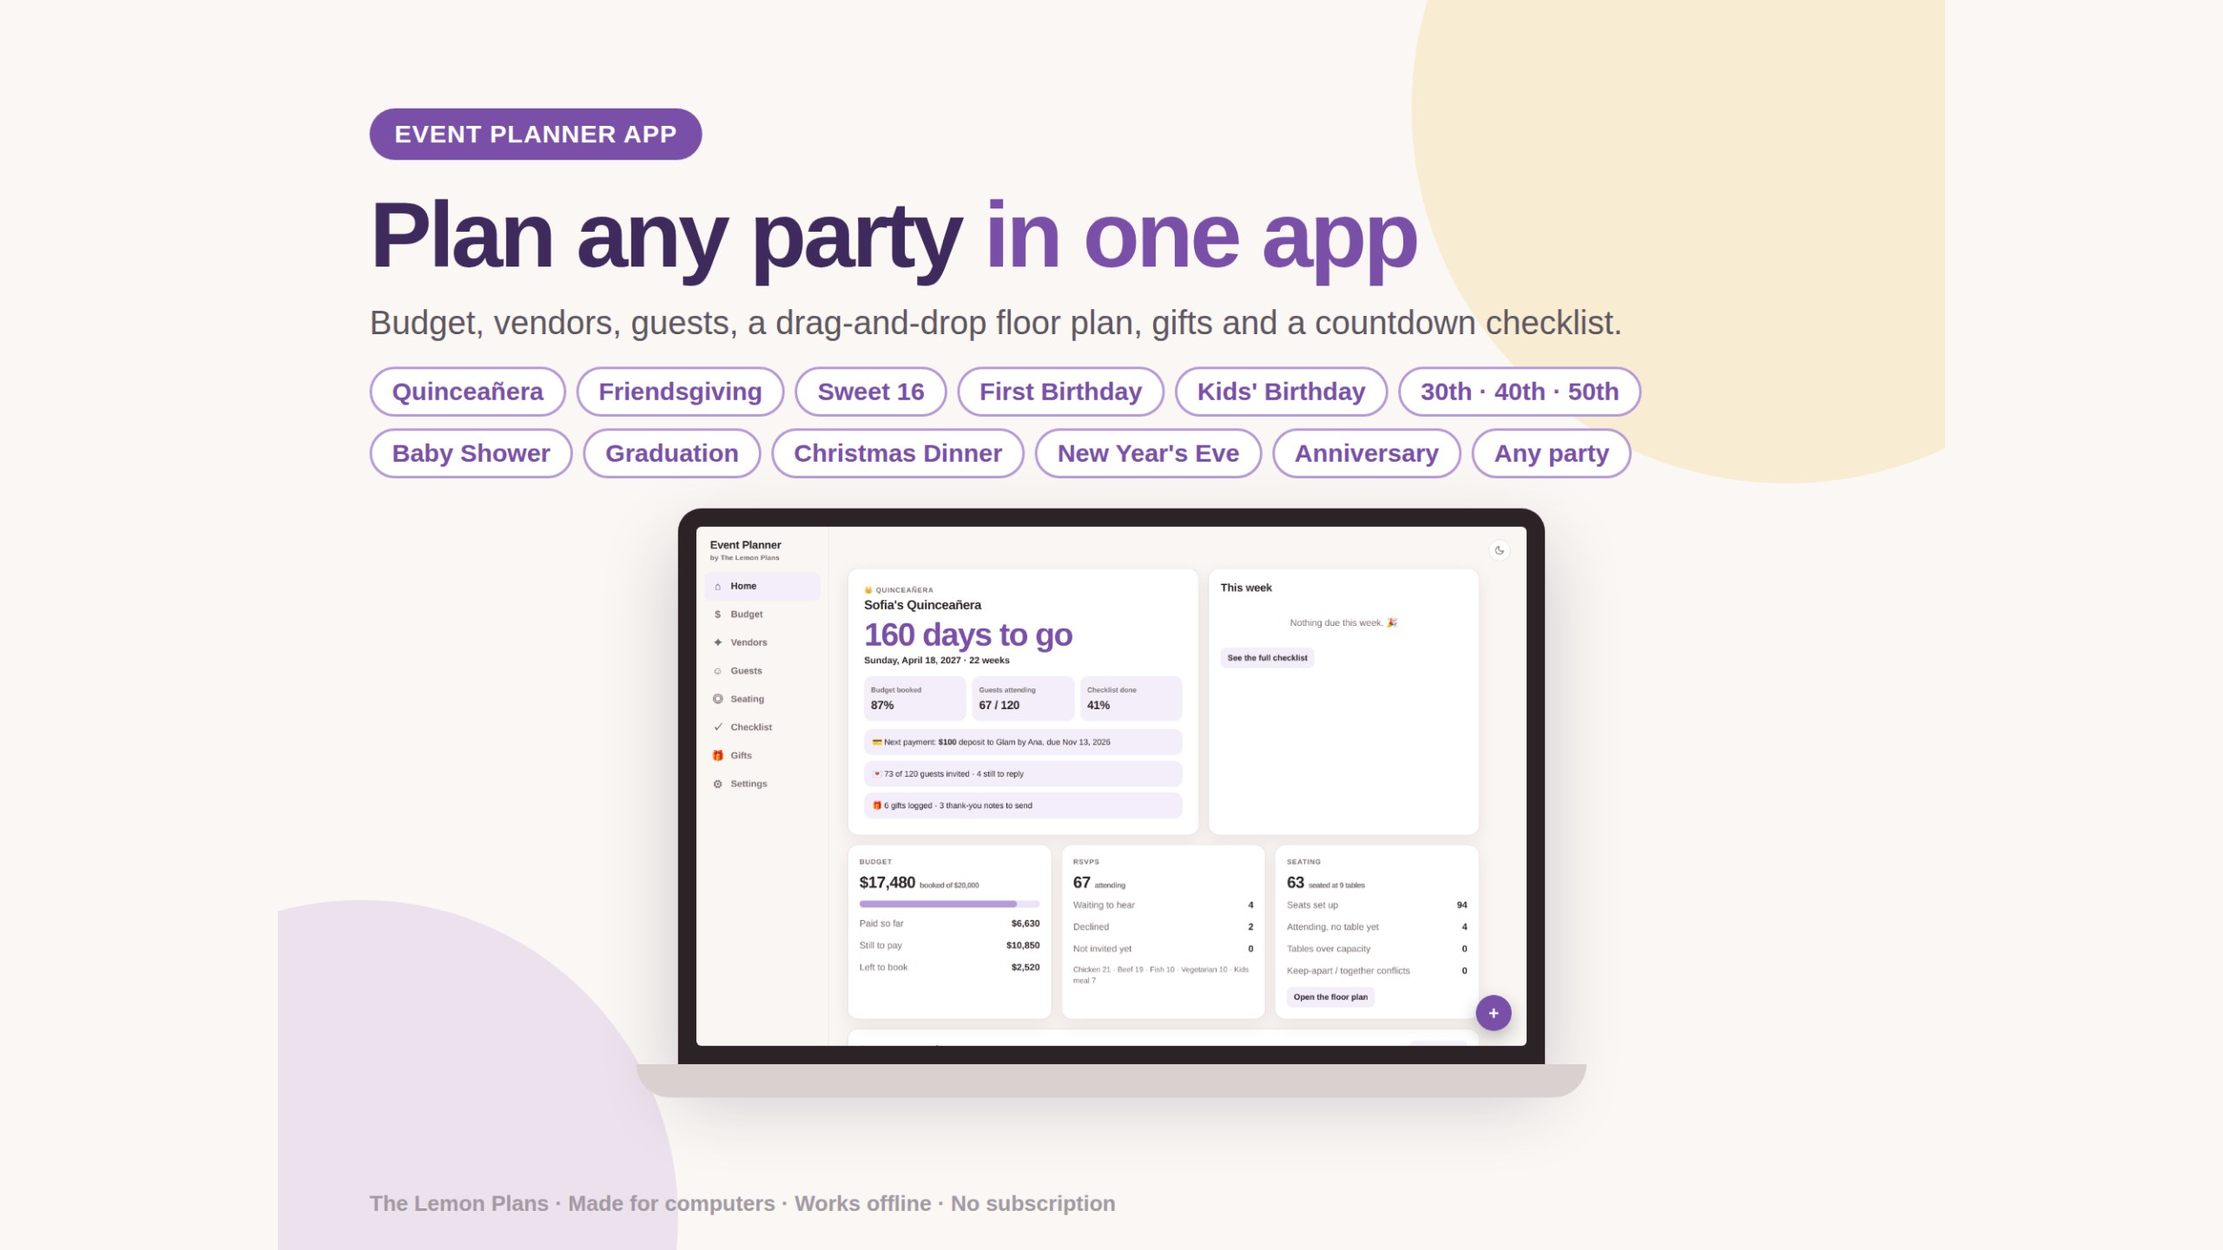
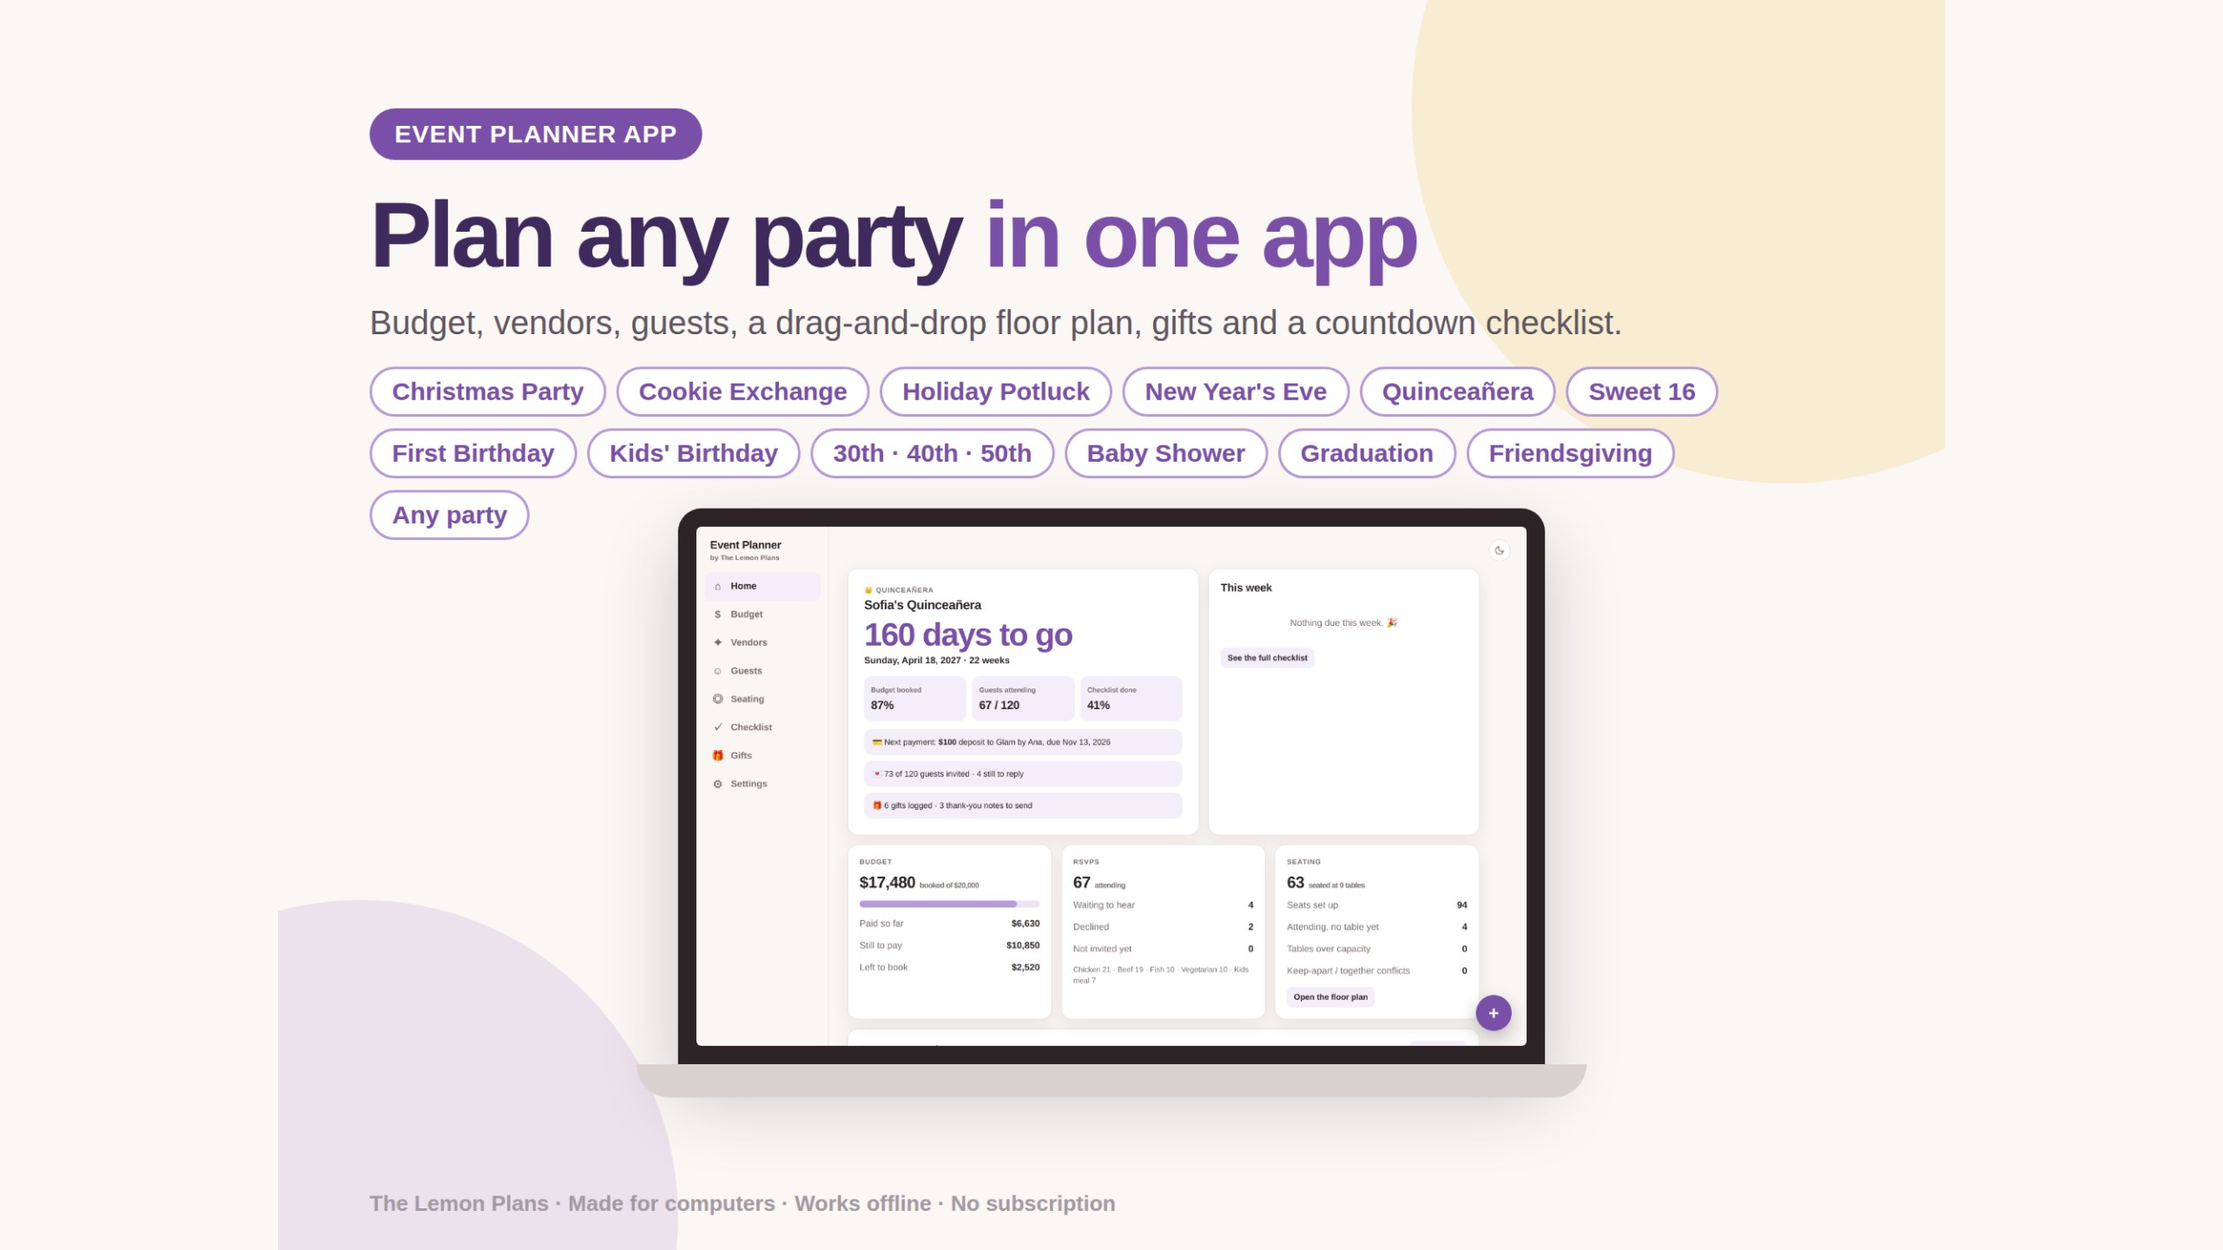
Event Planner demo: pacote de festas (Christmas Party padrão, Cookie Exchange, Holiday Potluck) e capas

Changed region(s): [[0.1875, 0.2812, 0.7812, 0.375], [0.1562, 0.4062, 0.25, 0.4375]]

diff --git a/app/event-planner-demo/index.html b/app/event-planner-demo/index.html
@@ -426,7 +426,48 @@ const TPL = {
       ["1 month", 30, ["Make a photo board (all the school years)", "Plan the menu", "Buy favors", "Seating chart"]],
       ["1 week", 7, ["Final head count", "Confirm every vendor", "Pay final balances", "Set up a card box"]],
       ["After the party", -14, ["Log the cards and gifts", "Send thank-you notes"]]] },
-  "holiday-party": { name: "Holiday / Office Party", emoji: "🎄", accent: "berry", blurb: "Team party, gift exchange, raffle",
+  "christmas-party": { name: "Christmas Party", emoji: "🎄", accent: "berry", blurb: "Friends & family party, potluck, gift swap",
+    who: ["Host", "Mia"], who2: null, age: null, title: s => s.p1 ? poss(s.p1) + " Christmas Party" : "Christmas Party",
+    dateLabel: "Party date", sides: ["Friends", "Family", "Neighbors & coworkers"], head: "Head table", honoree: "Host's table", today: "Merry Christmas! 🎄", after: "Merry Christmas! 🎄",
+    tip: "Food and drinks are most of a Christmas party. Make it a potluck: you cover the main and the drinks, guests sign up for the rest, and nobody brings the fourth cheese plate.",
+    budgetPh: 600, goalPh: 25, menu: true, items: ["buffet", "bar", "dessert", "gifts", "photobooth", "dance", "label"],
+    courses: ["Appetizers", "Mains", "Sides", "Desserts & cookies", "Drinks"],
+    cats: [["Food", 30, "🍽"], ["Drinks", 20, "🍷"], ["Decorations & tree", 15, "🎄"], ["Gift swap / white elephant", 8, "🎁"], ["Games & photo booth", 7, "📸"],
+      ["Supplies (plates, cups)", 7, "🥤"], ["Music", 5, "🎶"], ["Other & Buffer", 8, "🧾"]],
+    when: [
+      ["4 weeks", 28, ["Pick the date (Dec weekends fill fast)", "Set the guest list and the budget", "Pick a theme (ugly sweater?)"]],
+      ["3 weeks", 21, ["Send invites with the potluck sign-up", "Plan the gift swap rules and price limit", "Ask about allergies and diets"]],
+      ["2 weeks", 14, ["Check the sign-up: fill empty courses", "Plan games and a photo spot", "Order decorations"]],
+      ["1 week", 7, ["Make the shopping list", "Make the playlist", "Borrow chairs and serving dishes"]],
+      ["1–2 days", 2, ["Buy drinks and ice", "Set up the room and the buffet", "Send a reminder with what to bring"]],
+      ["After the party", -2, ["Send leftovers home", "Thank everyone"]]] },
+  "cookie-exchange": { name: "Cookie Exchange", emoji: "🍪", accent: "gold", blurb: "Who bakes what, no repeats, boxes to take",
+    who: ["Host", "Emma"], who2: null, age: null, title: s => s.p1 ? poss(s.p1) + " Cookie Exchange" : "Christmas Cookie Exchange",
+    dateLabel: "Swap date", sides: ["Friends", "Family", "Neighbors & coworkers"], head: "Head table", honoree: "Host's table", today: "Happy baking! 🍪", after: "Enjoy the cookies! 🍪",
+    tip: "Each guest bakes one kind of cookie, about a dozen per guest. The sign-up stops two people from baking the same sugar cookie. Spend on boxes, labels and drinks.",
+    budgetPh: 150, goalPh: 10, menu: true, items: ["dessert", "bar", "welcome", "gifts", "label"],
+    courses: ["Cookies", "Drinks & snacks"], need: [[1, 1], [8, 1]],
+    cats: [["Drinks & snacks", 35, "☕"], ["Boxes, tins & labels", 25, "📦"], ["Decorations", 15, "🎀"], ["Baking supplies", 15, "🧈"], ["Other & Buffer", 10, "🧾"]],
+    when: [
+      ["3 weeks", 21, ["Set the date and the guest list", "Send invites: one kind of cookie, a dozen per guest", "Share the sign-up so nobody repeats"]],
+      ["2 weeks", 14, ["Check the sign-up for repeats", "Ask about nut and gluten allergies", "Order boxes, tins and labels"]],
+      ["1 week", 7, ["Print recipe cards", "Plan drinks and savory snacks", "Make the shopping list"]],
+      ["1–2 days", 2, ["Bake your own batch", "Set up the cookie table", "Send a reminder: bring the recipe"]],
+      ["After", -2, ["Share the recipes with everyone", "Thank everyone"]]] },
+  "holiday-potluck": { name: "Holiday Potluck", emoji: "🥘", accent: "sage", blurb: "Who brings what, by course, for any gathering",
+    who: ["Host", "Lena"], who2: null, age: null, title: s => s.p1 ? poss(s.p1) + " Holiday Potluck" : "Holiday Potluck",
+    dateLabel: "Potluck date", sides: ["Family", "Friends", "Coworkers & others"], head: "Head table", honoree: "Host's seat", today: "Happy holidays! 🥘", after: "Thanks for coming! 🥘",
+    tip: "In a potluck the host covers the main, the drinks and the supplies. Fill every course with the sign-up and keep a dish for each diet.",
+    budgetPh: 250, goalPh: 20, menu: true, items: ["buffet", "dessert", "bar", "kids", "welcome", "label"],
+    courses: ["Appetizers", "Mains", "Sides", "Desserts", "Drinks"],
+    cats: [["Main dish", 35, "🍗"], ["Drinks", 20, "🥤"], ["Supplies (plates, foil, to-go boxes)", 15, "🍽"], ["Decorations", 10, "✨"], ["Rentals (chairs, tables)", 10, "🪑"], ["Other & Buffer", 10, "🧾"]],
+    when: [
+      ["3 weeks", 21, ["Set the date and the guest list", "Send invites with the sign-up link or sheet", "Decide what the host covers"]],
+      ["2 weeks", 14, ["Ask about allergies and diets", "Check the sign-up: fill empty courses", "Fix duplicate dishes"]],
+      ["1 week", 7, ["Make the shopping list", "Borrow tables, chairs and serving spoons", "Plan oven and fridge space"]],
+      ["1–2 days", 2, ["Buy drinks, ice and supplies", "Set up the buffet with labels", "Send a reminder with what's still needed"]],
+      ["After", -2, ["Send leftovers home", "Return borrowed dishes", "Thank everyone"]]] },
+  "holiday-party": { name: "Office Holiday Party", emoji: "🏢", accent: "berry", blurb: "Team party, gift exchange, raffle",
     who: ["Company or host", "Brightline Co."], who2: null, age: null, title: s => s.p1 ? s.p1 + " Holiday Party" : "Holiday Party",
     dateLabel: "Party date", sides: ["Clients & guests", "Plus-ones", "Team"], head: "Head table", honoree: "Host table", today: "It's party night! 🎄", after: "Happy holidays! 🎄",
     tip: "Catering and the bar are about half of an office party. Set a budget per person, and plan rides home (rideshare codes) in the budget.",
@@ -513,9 +554,10 @@ const TPL = {
       ["1 week", 7, ["Confirm every vendor", "Pay final balances"]],
       ["After the event", -14, ["Log the gifts and send thank-you notes"]]] }
 };
-const TPL_ORDER = ["quinceanera", "friendsgiving", "sweet-16", "first-birthday", "kids-birthday", "milestone-birthday", "baby-shower", "graduation", "christmas-dinner", "new-years-eve", "holiday-party", "anniversary", "custom"];
-const tplKey = k => TPL[k] ? k : (k === "sweet16" ? "sweet-16" : k === "milestone" ? "milestone-birthday" : k === "first" ? "first-birthday" : k === "kids" ? "kids-birthday" : k === "baby" ? "baby-shower" : k === "holiday" || k === "office-party" ? "holiday-party" : k === "quince" ? "quinceanera" : k === "thanksgiving" ? "friendsgiving" : k === "christmas" ? "christmas-dinner" : k === "nye" || k === "new-years" ? "new-years-eve" : "");
+const TPL_ORDER = ["christmas-party", "cookie-exchange", "holiday-potluck", "new-years-eve", "quinceanera", "sweet-16", "first-birthday", "kids-birthday", "milestone-birthday", "baby-shower", "graduation", "friendsgiving", "christmas-dinner", "holiday-party", "anniversary", "custom"];
+const tplKey = k => TPL[k] ? k : (k === "sweet16" ? "sweet-16" : k === "milestone" ? "milestone-birthday" : k === "first" ? "first-birthday" : k === "kids" ? "kids-birthday" : k === "baby" ? "baby-shower" : k === "holiday" || k === "office-party" ? "holiday-party" : k === "quince" ? "quinceanera" : k === "thanksgiving" ? "friendsgiving" : k === "christmas" ? "christmas-party" : k === "cookies" ? "cookie-exchange" : k === "potluck" ? "holiday-potluck" : k === "office-holiday-party" ? "holiday-party" : k === "nye" || k === "new-years" ? "new-years-eve" : "");
 const COURSES = ["Appetizers", "Main dish", "Sides", "Desserts", "Drinks"];
+const COURSE_NEED = [[8, 1], [16, 1], [4, 2], [8, 1], [10, 1]]; // dishes per course: max(min, people ÷ n rounded up)
 const DIET_TAGS = ["Vegetarian", "Vegan", "Gluten-free", "Dairy-free", "Nut-free"];
 
 /* ---------- sample events (one per template) ----------
@@ -638,6 +680,42 @@ const SAMPLES = {
     groups: [["Our kids & grandkids", "b", "Family", 1, ["Susan Hayes & guest", "Michael Hayes & guest", "Emily Hayes*", "Jacob Hayes*", "Sophie Hayes*", "Ryan Hayes"]], ["", "p1", "Family", 2, ["Sister Carol Dunn & guest", "Brother Ray Dunn & guest"]], ["", "p2", "Family", 3, ["Cousin Bill Hayes & guest", "Aunt Mae Hayes"]],
       ["Bridge club", "b", "Friends", 4, ["Pat Gordon & guest", "Joyce Ellis & guest", "Frank Lowe & guest"]], ["", "b", "Church", 5, ["Rev. Allen & guest", "Ida Perkins", "Gloria Sims & guest"]], ["", "b", "Neighbors", 0, ["Ken Walsh & guest", "Ruth Nolan", "Dot Fisher;;;I", "Hal Price;;;X"]]],
     rules: [], gifts: [["Bridge club", "Engraved photo frame", 75, 2, false]], done: 7 },
+  "christmas-party": { p1: "Mia", days: 33, budget: 600, goal: 24, room: [40, 28],
+    tables: [["Friends", 8, "round", 8, 8], ["Friends", 8, "round", 8, 20], ["Family", 8, "round", 21, 20]],
+    items: [["buffet", 34, 8, 90, "Potluck buffet", 12, 3], ["bar", 34, 21, 90, "Hot cocoa & drinks", 8, 3], ["dessert", 21, 4, 0, "Cookie table", 8, 3], ["gifts", 21, 10, 0, "White elephant gifts", 6, 2.5], ["photobooth", 28.5, 3, 0, "Ugly sweater photo spot", 4, 4], ["label", 27, 26, 0, "Tree", 6, 2]],
+    vendors: [["Drinks", "Costco", "Wine, beer, cocoa bar", "Booked", 120, 0, 0, 3], ["Decorations & tree", "Target", "Lights, garland, table runners", "Paid in full", 85, 0, 0, 0], ["Supplies (plates, cups)", "Party City", "Plates, cups, napkins", "Paid in full", 32, 0, 0, 0], ["Food", "Costco", "Spiral ham", "Booked", 70, 0, 0, 3], ["Games & photo booth", "Amazon", "Photo props + sweater contest prize", "Booked", 28, 0, 0, 10]],
+    pays: [[4, "Target", 85, "Card", "Decorations"], [3, "Party City", 32, "Card", "Supplies"]],
+    groups: [["", "o", "Friends", 1, ["Ava Stone", "Ben Ruiz", "Chloe Kim;Vegetarian", "Dan Ford & guest", "Eli Moss;;Gluten-free"]], ["", "o", "Friends", 2, ["Fay Lin", "Gus Hart & guest", "Hana Cole;Vegan", "Ivan Diaz"]],
+      ["The Parks", "p2", "Family", 3, ["Jen Park", "Ken Park", "Lily Park*", "Max Park*"]], ["", "p2", "Family", 3, ["Aunt Nora Wells"]], ["", "o", "Neighbors & coworkers", 0, ["Omar Reed", "Pia Grant", "Quinn Shaw;;;I", "Rosa Vega;;;X"]]],
+    rules: [], gifts: [],
+    dishes: [["Mains", "Spiral ham", "Host", 24, "Gluten-free"], ["Drinks", "Hot cocoa bar", "Host", 24, "Vegetarian"], ["Appetizers", "Charcuterie board", "Ava Stone", 15, "Gluten-free"], ["Appetizers", "Spinach dip", "Ben Ruiz", 12, "Vegetarian"],
+      ["Sides", "Mac & cheese", "Chloe Kim", 12, "Vegetarian"], ["Sides", "Mac & cheese", "Fay Lin", 10, "Vegetarian"], ["Sides", "Roasted veggies", "Hana Cole", 10, "Vegan, Gluten-free"], ["Desserts & cookies", "Sugar cookies", "Jen Park", 24, "Vegetarian"],
+      ["Desserts & cookies", "Peppermint bark", "Aunt Nora Wells", 20, "Vegetarian, Gluten-free"], ["Drinks", "Mulled wine", "Gus Hart & guest", 16, "Vegan"]],
+    shop: [["Ice", "3 bags", 9, "", false], ["Marshmallows & peppermints", "", 8, "Hot cocoa bar", false], ["Spiral ham (pick up Fri)", "1", 70, "Spiral ham", false], ["Glaze packet", "", 0, "Spiral ham", true]],
+    done: 4 },
+  "cookie-exchange": { p1: "Emma", days: 31, budget: 150, goal: 10, room: [26, 18],
+    tables: [["Tasting table", 8, "rect", 9, 9]],
+    items: [["dessert", 20, 6, 90, "Cookie swap table", 10, 3], ["bar", 20, 15, 90, "Cocoa & coffee", 5, 2.5], ["welcome", 9, 2, 0, "Boxes & labels", 6, 2], ["label", 9, 16.5, 0, "Recipe cards", 8, 1.5]],
+    vendors: [["Boxes, tins & labels", "Amazon", "12 cookie tins + labels", "Paid in full", 36, 0, 0, 0], ["Drinks & snacks", "Trader Joe's", "Cocoa, coffee, cheese & crackers", "Booked", 45, 0, 0, 2], ["Decorations", "Michaels", "Ribbon, table runner", "Paid in full", 18, 0, 0, 0]],
+    pays: [[6, "Amazon", 36, "Card", "Tins"], [2, "Michaels", 18, "Card", "Ribbon"]],
+    groups: [["", "o", "Friends", 1, ["Ana Brooks", "Beth Lane;;Nut allergy", "Cara Wolfe", "Dina Shah;Vegan", "Erin Moss", "Gwen Hale"]], ["", "p2", "Family", 0, ["Mom (Linda)", "Sis Kate;;;I"]], ["", "o", "Neighbors & coworkers", 0, ["Hope Diaz;;;X"]]],
+    rules: [], gifts: [],
+    dishes: [["Cookies", "Gingerbread men", "Host", 12, "Vegetarian"], ["Cookies", "Sugar cookies", "Ana Brooks", 12, "Vegetarian"], ["Cookies", "Sugar cookies", "Cara Wolfe", 12, "Vegetarian"], ["Cookies", "Snickerdoodles", "Erin Moss", 12, "Vegetarian, Nut-free"],
+      ["Cookies", "Vegan chocolate crinkles", "Dina Shah", 12, "Vegan"], ["Drinks & snacks", "Cocoa & coffee", "Host", 10, "Vegan, Gluten-free"]],
+    shop: [["Ribbon", "2 rolls", 6, "", true], ["Molasses & ginger", "", 7, "Gingerbread men", false], ["Milk & cream", "", 6, "Cocoa & coffee", false]],
+    done: 4 },
+  "holiday-potluck": { p1: "Lena", days: 38, budget: 250, goal: 20, room: [34, 24],
+    tables: [["Long table", 10, "banquet", 13, 7], ["Long table", 10, "banquet", 13, 16], ["Kids' table", 6, "rect", 28, 19]],
+    items: [["buffet", 29, 6, 90, "Potluck buffet", 10, 3], ["dessert", 4, 12, 90, "Desserts", 8, 3], ["bar", 18, 23, 0, "Drinks", 6, 1.8], ["label", 6, 22.5, 0, "Coats", 6, 1.5]],
+    vendors: [["Main dish", "Publix", "Turkey breast + ham", "Booked", 75, 0, 0, 2], ["Drinks", "Costco", "Cider, soda, sparkling water", "Booked", 40, 0, 0, 2], ["Supplies (plates, foil, to-go boxes)", "Dollar Tree", "Plates, foil pans, to-go boxes", "Paid in full", 22, 0, 0, 0]],
+    pays: [[3, "Dollar Tree", 22, "Card", "Supplies"]],
+    groups: [["The Garcias", "p1", "Family", 1, ["Rosa Garcia", "Luis Garcia", "Sofi Garcia*"]], ["", "p1", "Family", 1, ["Tia Marta Ruiz", "Uncle Joe Ruiz;;Gluten-free"]], ["", "p2", "Friends", 2, ["Amy Cho;Vegetarian", "Brett Hale", "Cody Ng", "Dee Wills;Vegan"]],
+      ["The Lees", "p2", "Friends", 2, ["Grace Lee", "Henry Lee", "Ivy Lee*"]], ["", "o", "Coworkers & others", 0, ["Jon Park", "Kim Lowe;;;I"]]],
+    rules: [], gifts: [],
+    dishes: [["Mains", "Roast turkey breast", "Host", 20, "Gluten-free, Dairy-free"], ["Mains", "Tamales", "The Garcias", 24, "Gluten-free"], ["Sides", "Green bean casserole", "Tia Marta Ruiz", 10, "Vegetarian"], ["Sides", "Mashed potatoes", "Amy Cho", 10, "Vegetarian, Gluten-free"],
+      ["Sides", "Mashed potatoes", "Brett Hale", 10, "Vegetarian"], ["Desserts", "Pumpkin pie", "Grace Lee", 8, "Vegetarian"], ["Drinks", "Apple cider", "Host", 20, "Vegan, Gluten-free"]],
+    shop: [["Turkey breast (pick up)", "2", 45, "Roast turkey breast", false], ["Foil pans", "6", 8, "", true], ["Ice", "2 bags", 6, "", false]],
+    done: 3 },
   friendsgiving: { p1: "Jess", days: 17, budget: 350, goal: 14, room: [32, 22],
     tables: [["Big table", 10, "banquet", 13, 9], ["Kids' table", 6, "rect", 13, 17]],
     items: [["buffet", 27, 6, 90, "Potluck buffet", 10, 3], ["dessert", 27, 15.5, 90, "Pie table", 6, 3], ["bar", 4, 18, 90, "Cider & drinks", 6, 2.5], ["entrance", 13, 21.4, 0, "", 6, 1.2]],
@@ -805,7 +883,7 @@ const ITEMS = {
 const SHAPES = { round: "Round", rect: "Rectangle", banquet: "Banquet", head: "Head table" };
 function load() {
   try { const s = JSON.parse(localStorage.getItem(KEY)); if (valid(s)) return normalize(s); } catch (e) {}
-  return DEMO ? sample("quinceanera") : blank();
+  return DEMO ? sample("christmas-party") : blank();
 }
 function save() { try { localStorage.setItem(KEY, JSON.stringify(S)); } catch (e) { toast("Couldn't save in this browser"); } }
 let S = load();
@@ -1868,7 +1946,7 @@ const normDish = n => String(n).toLowerCase().replace(/&/g, "and").replace(/[^a-
 // How many dishes each course should have for this many people (a starting point, shown as "2 of 3")
 function courseNeed(c, n) {
   const i = tplCourses().indexOf(c);
-  return i < 0 ? 0 : [Math.max(1, Math.ceil(n / 8)), n > 16 ? 2 : 1, Math.max(2, Math.ceil(n / 4)), Math.max(1, Math.ceil(n / 8)), Math.max(1, Math.ceil(n / 10))][i] || 1;
+  const r = i < 0 ? null : (TP().need || COURSE_NEED)[i]; return r ? Math.max(r[1], Math.ceil(n / r[0])) : 0;
 }
 const menuPeople = () => headcount().attending || S.guestGoal || 8;
 // Dietary needs of the guests who are coming (people): from the meal (Vegetarian / Vegan) and the "Dietary needs" text
@@ -2481,7 +2559,7 @@ const hashTpl = () => { const m = /(?:^|[#&])template=([\w-]+)/.exec(location.ha
 if (DEMO) {
   document.getElementById("demoBar").hidden = false; document.getElementById("buyLink").href = BUY_URL;
   const ds = document.getElementById("demoTpl"); ds.innerHTML = TPL_ORDER.map(k => `<option value="${k}">${esc(TPL[k].name)}</option>`).join("");
-  S = sample(hashTpl() || "quinceanera"); ds.value = S.tpl;
+  S = sample(hashTpl() || "christmas-party"); ds.value = S.tpl;
   ds.onchange = () => { location.hash = "template=" + ds.value; };
   addEventListener("hashchange", () => { const k = hashTpl(); if (k && k !== S.tpl) { S = sample(k); ds.value = k; SEL = null; VB = null; AUTO = null; go(VIEW === "settings" ? "settings" : VIEW); } });
   // Demo: nothing is saved (reload = back to the sample) and backup/restore/CSV/print are only in the full app.
